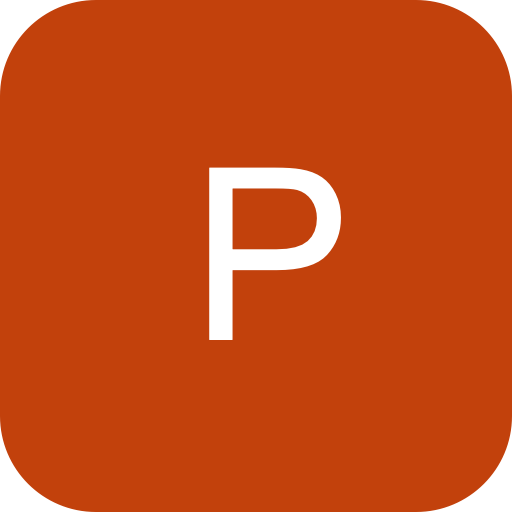
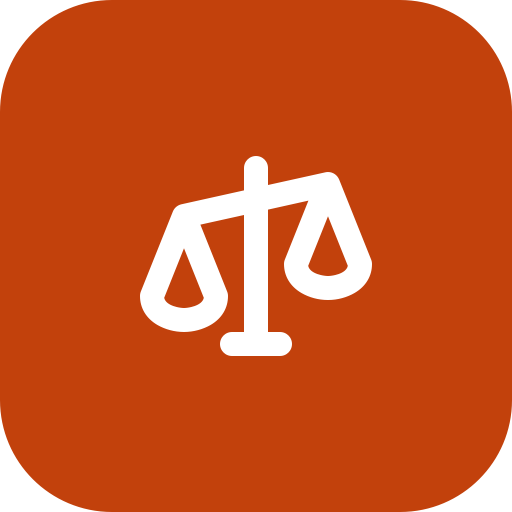
Refinamento: mais artigos no help + icones PWA com Phosphor scales
Help panel — 14 novos artigos (total 30):
- Admin: API keys e webhooks, Formularios de intake, Cadastro self-service
- Documentos: Modelos de documento, Assinaturas eletronicas, Busca full-text
- Processos: Audiencias, Gestao de prazos
- Financeiro: Fluxo de caixa, Timesheet, Rentabilidade por processo
- Comunicacao: Intimacoes eletronicas, Diario Oficial
- IA: Configurar IA (OpenAI/compativel)

PWA icones corrigidos:
- icon.svg agora usa o path real do Phosphor scales-bold
- Fundo terracota (#c2410c) com balanca branca — identidade visual do app
- icon-192.png e icon-512.png regerados a partir do SVG corrigido

Generated with [Devin](https://devin.ai)

diff --git a/src/lib/help-content.ts b/src/lib/help-content.ts
@@ -397,6 +397,305 @@ export const helpArticles: HelpArticle[] = [
       <p>Use os filtros de area e advogado para segmentar a analise.</p>
     `,
   },
+  {
+    slug: "api-keys",
+    title: "API keys e webhooks",
+    category: "admin",
+    excerpt: "Como criar API keys para integracoes externas e configurar webhooks.",
+    body: `
+      <h3>API Keys</h3>
+      <ol>
+        <li>Acesse <strong>Administracao > API e Webhooks</strong></li>
+        <li>Clique em "Nova API Key"</li>
+        <li>Selecione os escopos necessarios (cases:read, cases:write, clients:read, etc.)</li>
+        <li>Defina uma data de expiracao (recomendado)</li>
+        <li>Copie a chave — ela nao sera mostrada novamente</li>
+      </ol>
+
+      <h3>Webhooks</h3>
+      <p>Webhooks sao chamadas HTTP que o PragmaOS faz para seu endpoint quando eventos acontecem (novo caso, fatura paga, etc.).</p>
+      <ol>
+        <li>Acesse <strong>Administracao > API e Webhooks</strong></li>
+        <li>Clique em "Novo Webhook"</li>
+        <li>Informe a URL do seu endpoint</li>
+        <li>Selecione os eventos que deseja receber</li>
+        <li>O PragmaOS envia um header <code>X-PragmaOS-Signature</code> com HMAC para verificacao</li>
+      </ol>
+    `,
+  },
+  {
+    slug: "intake-forms",
+    title: "Formularios de intake",
+    category: "admin",
+    excerpt: "Como criar formularios publicos para captar novos clientes.",
+    body: `
+      <h3>O que sao</h3>
+      <p>Formularios de intake sao links publicos que clientes potenciais preenchem. Os dados sao salvos como submissoes e podem ser convertidos em clientes/casos automaticamente.</p>
+
+      <h3>Como criar</h3>
+      <ol>
+        <li>Acesse <strong>CRM > Intake Forms</strong></li>
+        <li>Clique em "Novo Formulario"</li>
+        <li>Defina titulo e descricao</li>
+        <li>Adicione campos (texto, CPF, telefone, etc.)</li>
+        <li>Mapeie cada campo para Cliente ou Caso</li>
+        <li>Salve — voce recebera um link publico</li>
+      </ol>
+
+      <h3>Converter submissoes</h3>
+      <p>Quando um cliente preenche o formulario, a submissao aparece na lista. Clique em "Converter" para criar automaticamente o cliente e o caso.</p>
+    `,
+  },
+  {
+    slug: "self-service-signup",
+    title: "Cadastro self-service (novos escritorios)",
+    category: "admin",
+    excerpt: "Como novos escritorios se cadastram automaticamente.",
+    body: `
+      <h3>Como funciona</h3>
+      <p>Novos escritorios podem se cadastrar diretamente na pagina /signup, sem intervencao manual. O sistema cria:</p>
+      <ul>
+        <li>Tenant (escritorio) com plano trial (14 dias)</li>
+        <li>Usuario admin com acesso total</li>
+        <li>Configuracoes padrao (timezone, moeda, locale)</li>
+        <li>Tags iniciais (Prioritario, Complexidade)</li>
+      </ul>
+
+      <h3>Planos</h3>
+      <ul>
+        <li><strong>Trial</strong>: 14 dias gratis, ate 3 usuarios</li>
+        <li><strong>Starter</strong>: R$ 199/mes, ate 10 usuarios</li>
+        <li><strong>Pro</strong>: R$ 499/mes, ate 50 usuarios</li>
+        <li><strong>Enterprise</strong>: sob consulta, usuarios ilimitados</li>
+      </ul>
+    `,
+  },
+
+  // Documentos — artigos adicionais
+  {
+    slug: "modelos-documento",
+    title: "Modelos de documento",
+    category: "documentos",
+    excerpt: "Como criar e usar modelos reutilizaveis de documentos.",
+    body: `
+      <h3>Como criar um modelo</h3>
+      <ol>
+        <li>Acesse <strong>Documentos > Modelos</strong></li>
+        <li>Clique em "Novo Modelo"</li>
+        <li>Defina o nome e tipo (peticao, contrato, procuracao, etc.)</li>
+        <li>Escreva o conteudo usando o editor</li>
+        <li>Use variaveis como <code>{{cliente.nome}}</code>, <code>{{caso.numero}}</code> para preenchimento automatico</li>
+      </ol>
+
+      <h3>Como usar</h3>
+      <p>Ao criar um documento, selecione um modelo como base. As variaveis serao preenchidas com os dados do caso/cliente.</p>
+    `,
+  },
+  {
+    slug: "assinaturas-eletronicas",
+    title: "Assinaturas eletronicas (ClickSign/DocuSign)",
+    category: "documentos",
+    excerpt: "Como enviar documentos para assinatura via ClickSign ou DocuSign.",
+    body: `
+      <h3>1. Configure a integracao</h3>
+      <p>Acesse <strong>Integracoes</strong> e configure ClickSign ou DocuSign com suas credenciais.</p>
+
+      <h3>2. Envie para assinatura</h3>
+      <ol>
+        <li>Abra o documento desejado</li>
+        <li>Clique em "Enviar para Assinatura"</li>
+        <li>Selecione o provedor (ClickSign ou DocuSign)</li>
+        <li>Informe os signatarios (e-mail)</li>
+        <li>Envie — o signatario recebera um link por e-mail</li>
+      </ol>
+
+      <h3>3. Acompanhe o status</h3>
+      <p>O status da assinatura aparece na lista de documentos. Webhooks atualizam o status automaticamente.</p>
+    `,
+  },
+  {
+    slug: "busca-documentos",
+    title: "Busca full-text em documentos",
+    category: "documentos",
+    excerpt: "Como buscar dentro do conteudo de documentos (PDFs, textos).",
+    body: `
+      <h3>Como buscar</h3>
+      <ol>
+        <li>Acesse <strong>Documentos > Busca em Docs</strong></li>
+        <li>Digite o termo de busca (minimo 2 caracteres)</li>
+        <li>O sistema busca no titulo e no texto extraido dos documentos</li>
+        <li>Resultados mostram snippets com o contexto do termo encontrado</li>
+      </ol>
+
+      <h3>Como o texto e extraido</h3>
+      <p>PDFs com texto selecionavel tem o conteudo extraido no upload. PDFs escaneados precisam de OCR (veja o artigo sobre OCR).</p>
+    `,
+  },
+
+  // Processos — artigos adicionais
+  {
+    slug: "audiencias",
+    title: "Cadastro de audiencias",
+    category: "processos",
+    excerpt: "Como registrar audiencias e vinculalas a casos.",
+    body: `
+      <h3>1. Acesse Processos > Audiencias</h3>
+      <p>Clique em "Nova Audiencia".</p>
+
+      <h3>2. Preencha</h3>
+      <ul>
+        <li><strong>Caso</strong>: selecione o caso vinculado</li>
+        <li><strong>Data e hora</strong>: quando ocorrera</li>
+        <li><strong>Tipo</strong>: conciliacao, instrucao, julgamento, etc.</li>
+        <li><strong>Local</strong>: vara, comarca ou link da audiencia online</li>
+      </ul>
+
+      <h3>3. Notificacoes</h3>
+      <p>Audiencias aparecem no calendario e geram notificacoes automaticas.</p>
+    `,
+  },
+  {
+    slug: "prazos-deadlines",
+    title: "Gestao de prazos e deadlines",
+    category: "processos",
+    excerpt: "Como registrar e acompanhar prazos processuais.",
+    body: `
+      <h3>Como registrar</h3>
+      <ol>
+        <li>Acesse <strong>Processos > Prazos</strong> ou abra um caso</li>
+        <li>Clique em "Novo Prazo"</li>
+        <li>Informe titulo, data e caso vinculado</li>
+        <li>Marque a prioridade se necessario</li>
+      </ol>
+
+      <h3>Acompanhamento</h3>
+      <p>Prazos proximos aparecem no dashboard com indicador de urgencia (vermelho = vencido, amarelo = proximo).</p>
+    `,
+  },
+
+  // Financeiro — artigos adicionais
+  {
+    slug: "fluxo-caixa",
+    title: "Fluxo de caixa",
+    category: "financeiro",
+    excerpt: "Como acompanhar entradas e saidas do escritorio.",
+    body: `
+      <h3>Como acessar</h3>
+      <p>Acesse <strong>Financeiro > Fluxo de Caixa</strong>.</p>
+
+      <h3>O que mostra</h3>
+      <ul>
+        <li>Entradas e saidas por mes</li>
+        <li>Saldo projetado</li>
+        <li>Cobrancas a receber (vencidas e a vencer)</li>
+        <li>Despesas registradas</li>
+      </ul>
+    `,
+  },
+  {
+    slug: "timesheet",
+    title: "Timesheet (controle de horas)",
+    category: "financeiro",
+    excerpt: "Como registrar horas trabalhadas por caso.",
+    body: `
+      <h3>Como registrar</h3>
+      <ol>
+        <li>Acesse <strong>Financeiro > Timesheet</strong></li>
+        <li>Clique em "Nova Entrada"</li>
+        <li>Selecione o caso e a atividade</li>
+        <li>Informe as horas (ou use o timer integrado)</li>
+      </ol>
+
+      <h3>Timer integrado</h3>
+      <p>Use o timer para registrar horas em tempo real. Clique em iniciar ao comecar uma tarefa e parar ao terminar.</p>
+
+      <h3>Relatorio de rentabilidade</h3>
+      <p>As horas registradas alimentam o relatorio de rentabilidade por processo (Financeiro > Relatorios > Rentabilidade).</p>
+    `,
+  },
+  {
+    slug: "rentabilidade",
+    title: "Analise de rentabilidade por processo",
+    category: "financeiro",
+    excerpt: "Cruzar horas gastas com honorarios recebidos por caso.",
+    body: `
+      <h3>O que e</h3>
+      <p>O relatorio de rentabilidade cruza o tempo gasto (timesheet) com os honorarios recebidos por cada caso, mostrando lucro ou prejuizo.</p>
+
+      <h3>Como acessar</h3>
+      <ol>
+        <li>Acesse <strong>Financeiro > Relatorios</strong></li>
+        <li>Clique em "Rentabilidade por Processo"</li>
+      </ol>
+
+      <h3>Como interpretar</h3>
+      <ul>
+        <li><strong>Receita</strong>: honorarios recebidos do caso</li>
+        <li><strong>Custo</strong>: horas gastas x custo horario do advogado</li>
+        <li><strong>Margem</strong>: receita - custo</li>
+        <li>Casos com margem negativa indicam baixa eficiencia</li>
+      </ul>
+    `,
+  },
+
+  // Comunicacao — artigos adicionais
+  {
+    slug: "intimacoes-eletronicas",
+    title: "Intimacoes eletronicas",
+    category: "comunicacao",
+    excerpt: "Como configurar captura automatica de intimacoes via intima.ai.",
+    body: `
+      <h3>1. Configure a integracao</h3>
+      <p>Acesse <strong>Integracoes</strong> e adicione uma integracao do tipo "intima.ai" com seu token de API.</p>
+
+      <h3>2. Monitoramento automatico</h3>
+      <p>Processos com numero CNJ sao monitorados automaticamente. Novas intimacoes aparecem em <strong>Comunicacao > Intimacoes</strong>.</p>
+
+      <h3>3. Calcule prazos</h3>
+      <p>A partir de cada intimacao, voce pode calcular o prazo processual diretamente.</p>
+    `,
+  },
+  {
+    slug: "diario-oficial",
+    title: "Diario Oficial",
+    category: "comunicacao",
+    excerpt: "Como monitorar publicacoes no diario oficial.",
+    body: `
+      <h3>1. Configure a busca</h3>
+      <p>Acesse <strong>Documentos > Diario Oficial</strong> e configure os termos de busca (nome do cliente, numero do processo, etc.).</p>
+
+      <h3>2. Monitoramento</h3>
+      <p>O sistema verifica diariamente as publicacoes e alerta quando encontra correspondencias.</p>
+
+      <h3>3. Notificacoes</h3>
+      <p>Publicacoes encontradas geram notificacoes automaticas no sistema.</p>
+    `,
+  },
+
+  // IA — artigo adicional
+  {
+    slug: "configurar-ia",
+    title: "Configurar IA (OpenAI/compativel)",
+    category: "ia",
+    excerpt: "Como configurar o provedor de IA para chat e resumos.",
+    body: `
+      <h3>1. Obtenha uma API key</h3>
+      <p>Use OpenAI, Azure OpenAI, ou qualquer provedor compativel com a API da OpenAI (LM Studio, Ollama, etc.).</p>
+
+      <h3>2. Configure as variaveis de ambiente</h3>
+      <ul>
+        <li><code>AI_API_KEY</code>: sua chave de API</li>
+        <li><code>AI_BASE_URL</code>: URL base (padrao: https://api.openai.com/v1)</li>
+        <li><code>AI_MODEL</code>: modelo (padrao: gpt-4o-mini)</li>
+      </ul>
+
+      <h3>3. Rate limiting</h3>
+      <p>Cada tenant tem um limite de requisicoes de IA por hora, configuravel via <code>AI_RATE_LIMIT_PER_TENANT</code>.</p>
+
+      <h3>Privacidade</h3>
+      <p>Dados sensiveis (PII) sao mascarados antes de enviar para a IA. O mascaramento ocorre antes da construcao do prompt.</p>
+    `,
+  },
 ];
 
 // Get articles by category.
